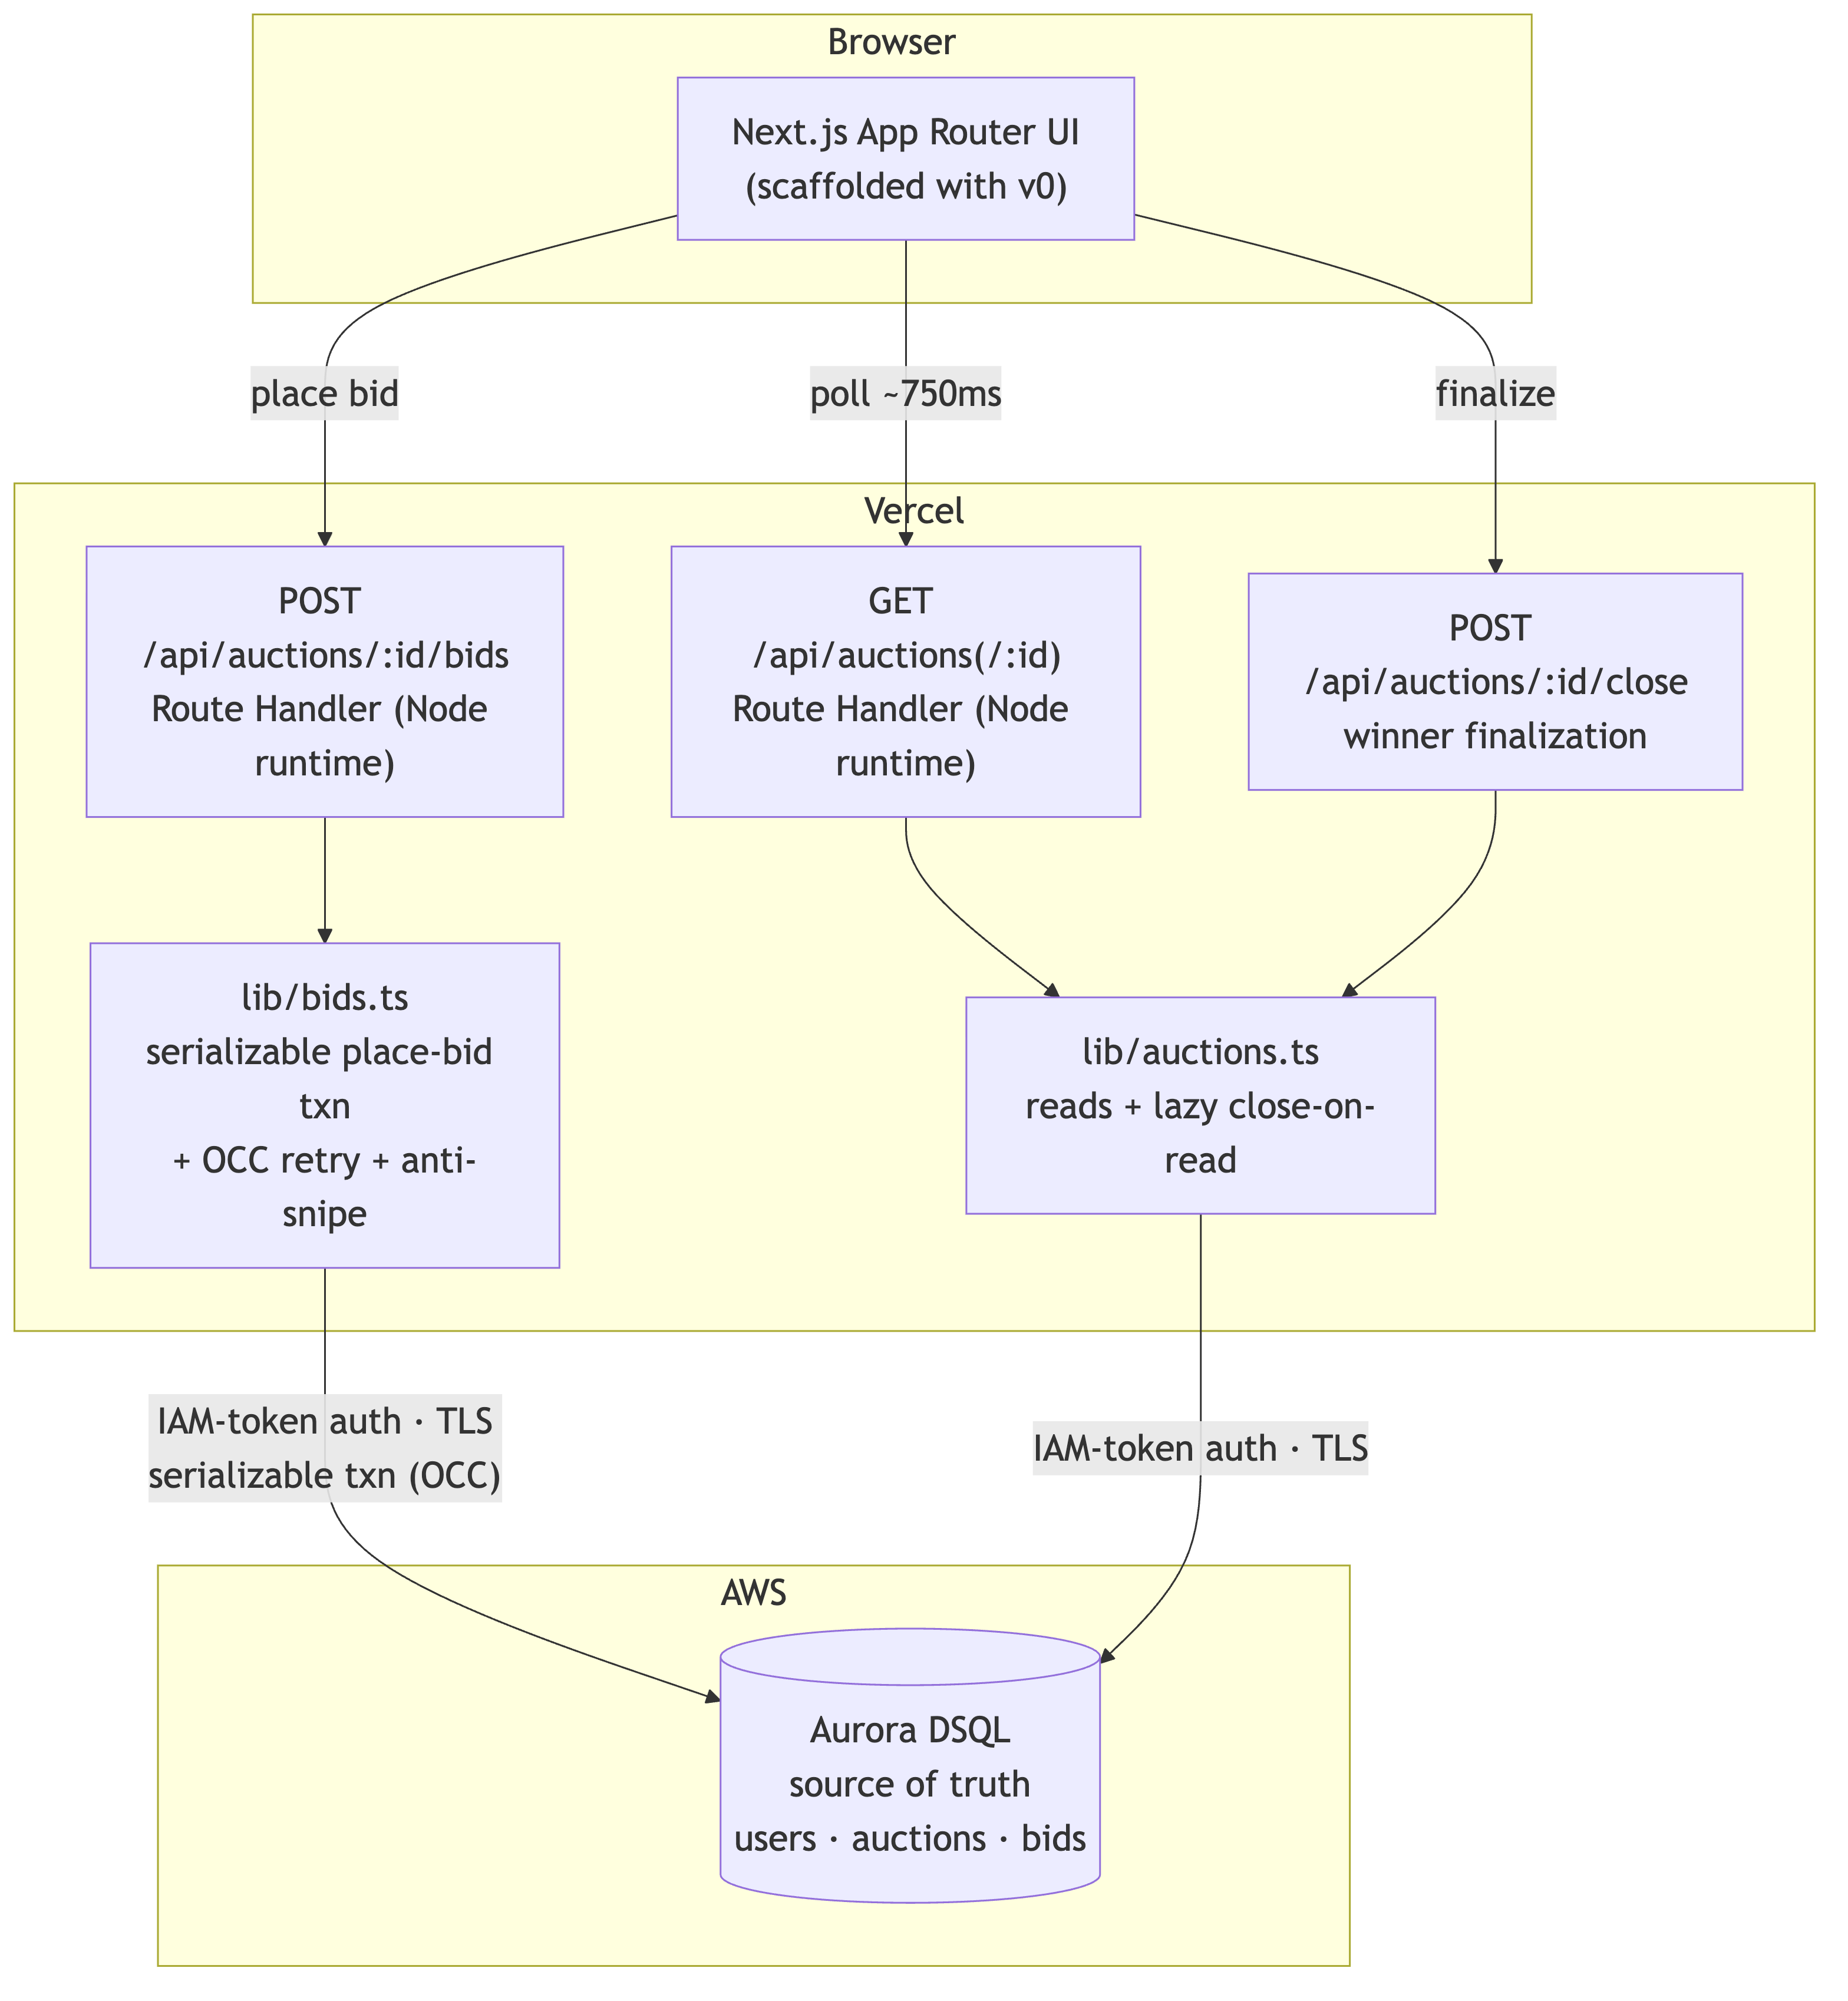
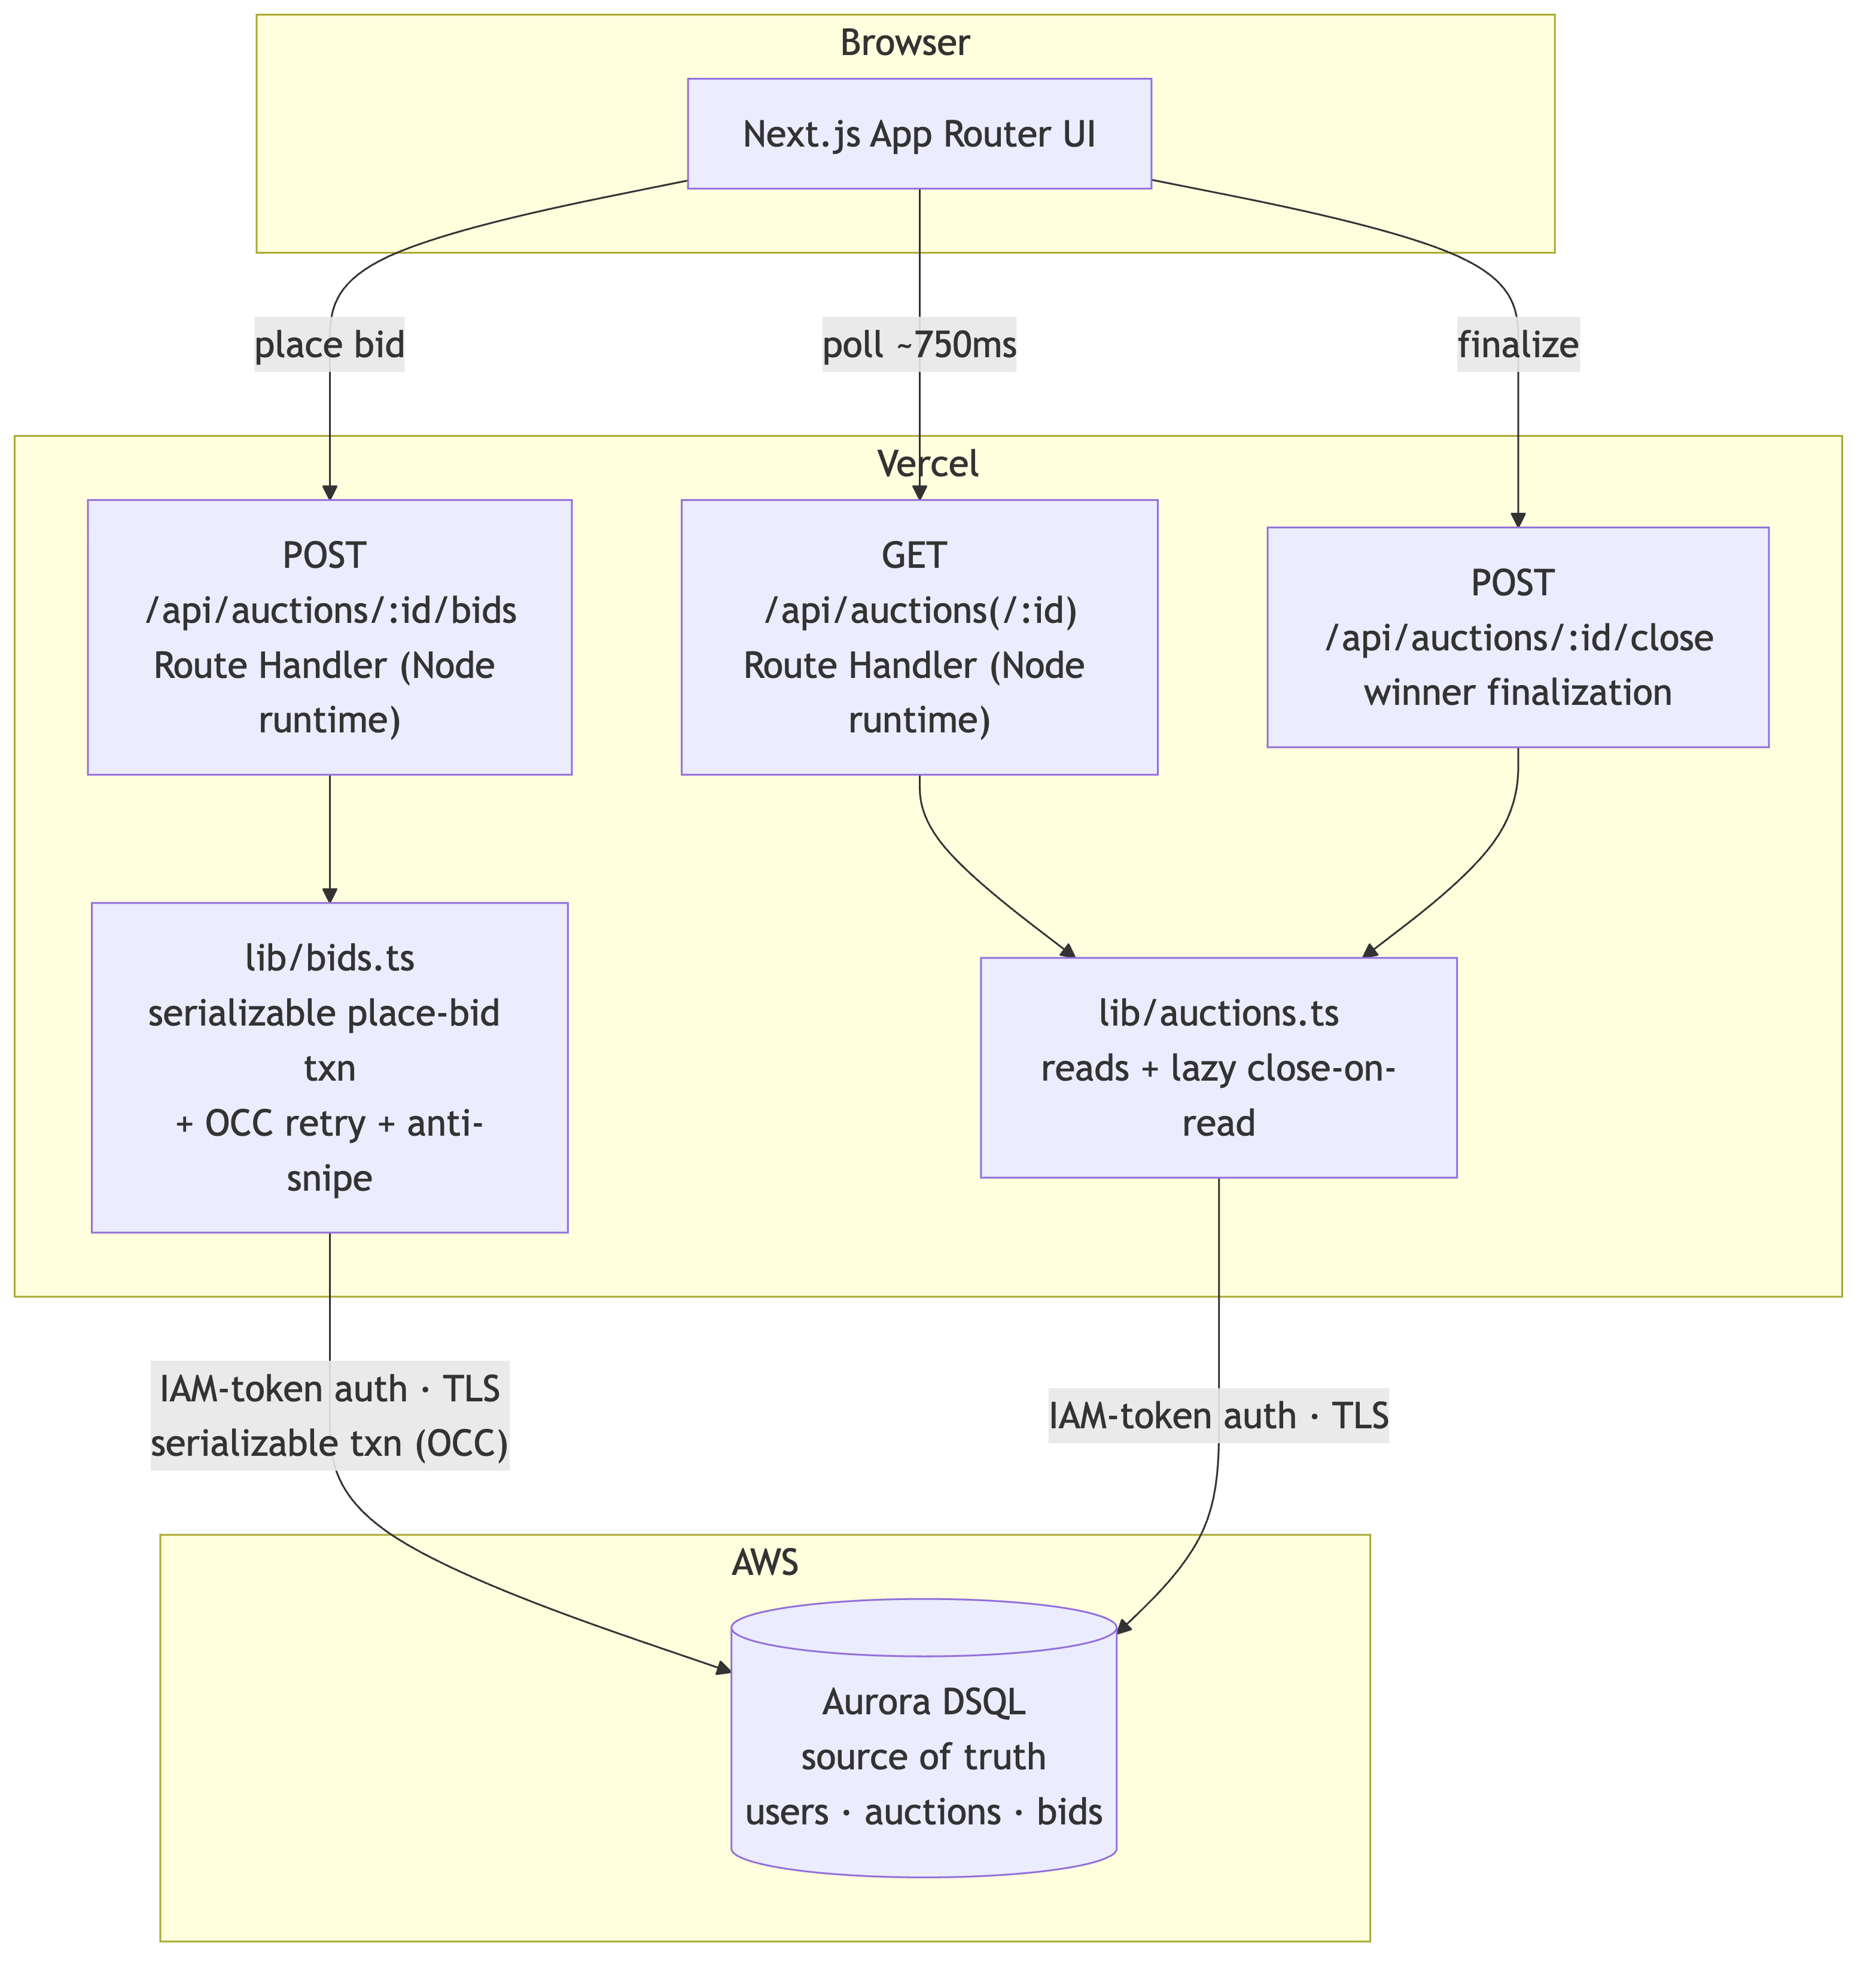
Correct UI provenance: hand-built, not v0-scaffolded
The UI was hand-built (no v0 usage in the codebase). Remove the
inaccurate 'scaffolded with v0' / v0 tech-stack claims from README,
SUBMISSION, the Devpost guide, ARCHITECTURE, and the rendered diagram.
The hackathon's own name (Vercel v0 + AWS Databases) is left intact.

diff --git a/prompts/DEVPOST_SUBMISSION_GUIDE.md b/prompts/DEVPOST_SUBMISSION_GUIDE.md
@@ -38,7 +38,7 @@ Required by the rules and the only missing asset.
 | **Project name** | GavelLive |
 | **Tagline** (≤200 char) | A live auction house that proves correctness under fire: thousands of concurrent bids, zero lost writes, exactly one winner — guaranteed by Amazon Aurora DSQL. |
 | **Full description** | Paste the **Ready-to-paste description** block below. |
-| **Built with** (tags) | nextjs, vercel, v0, amazon-aurora-dsql, typescript, node-postgres, aws-sdk |
+| **Built with** (tags) | nextjs, vercel, amazon-aurora-dsql, typescript, node-postgres, aws-sdk, tailwindcss |
 | **Track / category** | Million-scale global app |
 | **Try it out links** | `https://gavellive.vercel.app` · GitHub `https://github.com/amoghsingh130/gavellive` · Vercel Team ID `team_eoMiFbLGXTmAn1UJyuQgzbgc` |
 | **Video demo** | https://www.youtube.com/watch?v=VnD1zPqk2Gs (confirm Public or Unlisted, **not** Private) |
@@ -91,7 +91,7 @@ GavelLive is a marketplace of timed live auctions. A buyer opens an auction, see
 
 ## How we built it
 
-- Frontend: Next.js (App Router), scaffolded with v0, deployed on Vercel.
+- Frontend: Next.js (App Router) with a hand-built UI, deployed on Vercel.
 - Source of truth: Amazon Aurora DSQL — serializable, strongly consistent, optimistic concurrency control, accessed from Vercel serverless functions via short-lived IAM auth tokens (no static passwords).
 - The correctness core (lib/bids.ts): each bid opens a DSQL transaction — read auction snapshot → validate (live, not ended, ≥ high + increment) → insert bid → update high bid → extend ends_at if inside the anti-snipe window → COMMIT. DSQL aborts conflicting concurrent commits (SQLSTATE 40001); the handler catches it, re-reads, and retries with jittered backoff.
 - Winner finalization: lazy close-on-read — an atomic, anti-snipe-safe conditional UPDATE flips an auction to ended the moment its clock runs out.
@@ -128,7 +128,7 @@ No login required. Open https://gavellive.vercel.app, pick a bidder in the heade
 
 ## Built with
 
-Next.js · Vercel · v0 · Amazon Aurora DSQL · TypeScript · node-postgres · AWS SDK
+Next.js · Vercel · Amazon Aurora DSQL · TypeScript · node-postgres · AWS SDK · Tailwind CSS
 
 ## Disclaimer
 

diff --git a/ARCHITECTURE.md b/ARCHITECTURE.md
@@ -13,7 +13,7 @@ source of truth that guarantees correctness under heavy bid concurrency.
 ```mermaid
 flowchart TB
     subgraph Client["Browser"]
-        UI["Next.js App Router UI<br/>(scaffolded with v0)"]
+        UI["Next.js App Router UI"]
     end
 
     subgraph Vercel["Vercel"]
@@ -112,7 +112,7 @@ verifies invariants directly against DSQL:
 
 | Component | Status | Notes |
 |---|---|---|
-| Next.js (App Router) on Vercel | ✅ Built | UI scaffolded with v0 (pending credits) |
+| Next.js (App Router) on Vercel | ✅ Built | Hand-built UI |
 | Aurora DSQL | ✅ Live | Single-region us-east-1; IAM-token auth from serverless |
 | Place-bid OCC transaction + anti-snipe | ✅ Built & proven | `lib/bids.ts` |
 | Winner finalization (lazy close-on-read + force-close) | ✅ Built | `lib/auctions.ts` |

diff --git a/README.md b/README.md
@@ -77,8 +77,8 @@ Next.js (App Router) on Vercel
 
 ## Tech stack
 
-Next.js (App Router) · Vercel · v0 · **Amazon Aurora DSQL** · TypeScript ·
-node-postgres · AWS SDK
+Next.js (App Router) · Vercel · **Amazon Aurora DSQL** · TypeScript ·
+node-postgres · AWS SDK · Tailwind CSS
 
 ## Run locally
 

diff --git a/prompts/SUBMISSION.md b/prompts/SUBMISSION.md
@@ -62,7 +62,7 @@ GavelLive makes that guarantee its core feature — and ships a load test that
 
 ## How we built it
 
-- **Frontend:** Next.js (App Router), scaffolded with **v0**, deployed on **Vercel**.
+- **Frontend:** Next.js (App Router) with a hand-built UI, deployed on **Vercel**.
 - **Source of truth:** **Amazon Aurora DSQL** — serializable, strongly consistent,
   optimistic concurrency control, accessed from Vercel serverless functions via
   short-lived **IAM auth tokens** (no static passwords).
@@ -113,7 +113,7 @@ GavelLive makes that guarantee its core feature — and ships a load test that
 
 ## Built with
 
-Next.js · Vercel · v0 · Amazon Aurora DSQL · TypeScript · node-postgres · AWS SDK
+Next.js · Vercel · Amazon Aurora DSQL · TypeScript · node-postgres · AWS SDK · Tailwind CSS
 
 ## Disclaimer
 